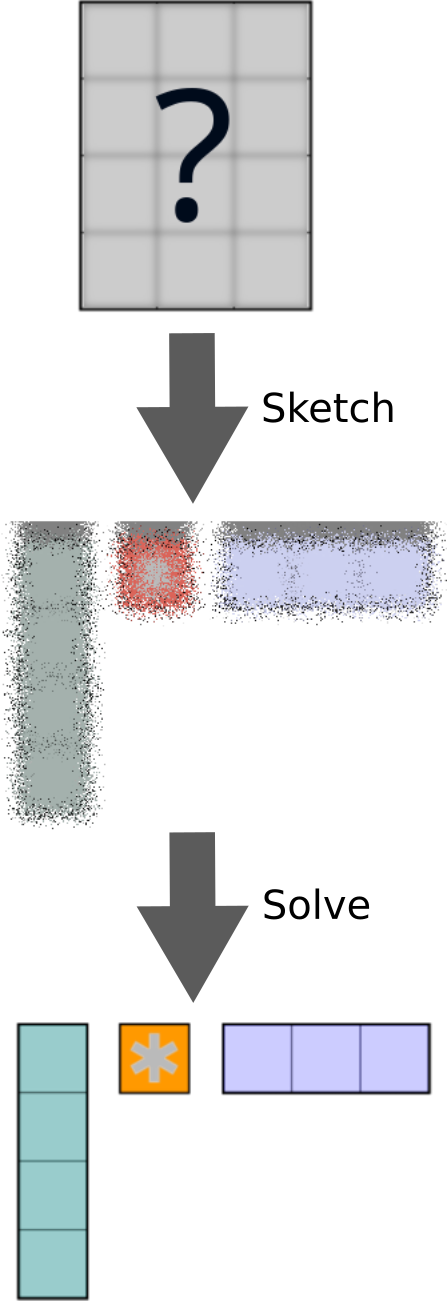
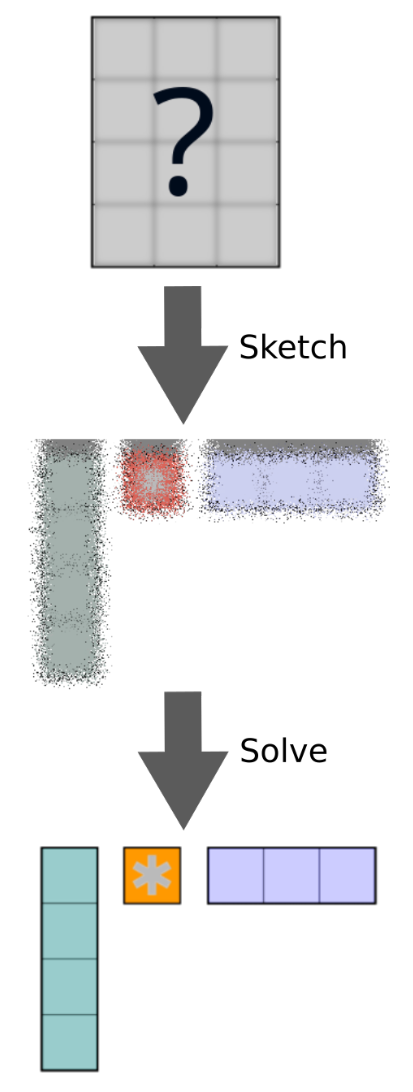
updated readme

diff --git a/README.md b/README.md
@@ -29,22 +29,41 @@
 * A-posteriori verification tools to test accuracy of sketched approximations
 * modular and extendible design, for easy adaption to new settings and operations
 
-# Why sketches? Why `skerch`?
+# Why sketches?
 
 Sketched methods are a good choice whenever we are dealing with *large* objects that can be approximated by *smaller* substructures (e.g. a low-rank approximation of a large matrix).
 Thanks to the random measurements (i.e. the "sketches"), we can directly obtain the *small* approximations, without having to store or compute the *large* object. This works with very few assumptions about how the smaller substructure looks like.
 
 For example, if we have a large linear operator of dimensionality `(N, N)` that doesn't fit in memory, but has rank `k`, we can directly retrieve its top-`k` singular components with only `O(Nk)` storage, as opposed to the intractable `O(N^2)` (see picture below for an intuition). As a bonus, this technique is numerically stable and can be parallelized, which often results in substantial speedups.
 
-And since `skerch` is built on top of PyTorch and with very few dependencies otherwise, it supports a broad variety of platforms and datatypes, including e.g. complex datatypes on GPU.
-Its modular and extendible design, featuring many common components of sketches, is also meant to reduce development times whenever new settings or methods are being explored.
-Last but not least, `skerch` also provides functionality to store and manipulate large tensors in a distributed fashion via `HDF5` tensor databases, useful for out-of-core computations.
-
-In summary, `skerch` is made to deal with linear objects that are large and slow, resulting in substantially faster and more scalable operations during runtime, and overall faster development times. Give it a try!
-
 <p align="center">
-  <img alt="Intuition for low-rank sketch-and-solve." src="docs/materials/assets/sketch_and_solve.png" width="18%"/>
+  <img alt="Intuition for low-rank sketch-and-solve." src="docs/materials/assets/sketch_and_solve.png" width="15%"/>
 </p>
+
+# Why `skerch`?
+
+On paper, sketched methods only require our linear operators to satisfy the following *bare bones interface*:
+
+```
+class MyLinOp:
+    def __init__(self, shape):
+        self.shape = shape
+
+    def __matmul__(self, x):
+        return "... implement A @ x ..."
+
+    def __rmatmul__(self, x):
+        return "... implement x @ A ..."
+```
+
+Anything more than this is not really required. In most cases, libraries do require more complicated interfaces, and this limits the application scenarios, or introduces substantial overhead to developers.
+
+`skerch` is specifically designed to work on this bare-bones interface. Furthermore, its highly modular architecture allows users to exchange and modify different components of the sketched methods.
+
+As a bonus, `skerch` is built on top of PyTorch, and with very few dependencies otherwise, so it supports a broad variety of platforms and datatypes (including e.g. complex datatypes on GPU).
+`skerch` also supports in-core and out-of-core parallelizations (e.g. via [HDF5](https://www.h5py.org/) tensor databases), providing good scalability in memory and runtime. The documentation [examples](https://skerch.readthedocs.io/en/latest/examples/index.html) illustrate all of the above points.
+
+In summary, `skerch` brings sketched methods to you with minimal overhead, and retaining good performance, resulting in overall faster development times. Give it a try!
 
 
 # Installation and basic usage
@@ -54,6 +73,72 @@ Install via:
 ```bash
 pip install skerch
 ```
+
+Then, given any linear operator `lop` that implements the bare-minimum interface `.shape = (h, w)` and `lop @ x, x @ lop`, we can compute the sketched SVD as follows (``skerch`` also provides functionality to estimate EIGH, norm, diagonals...):
+
+
+```python
+from skerch.algorithms import ssvd
+
+U, S, Vh = ssvd(lop, device, dtype, num_outer, seed=12345, recovery_type="nystrom")
+```
+
+With the `nystrom` recovery, this method requires a total of `2 * num_outer` measurements, and yields a *thin* SVD estimation where `lop` is approximated by `(U * S) @ Vh`, and  `U.shape = (h, num_outer)`, `S.shape = (num_outer,)`, `Vh.shape = (num_outer, w)`.
+
+If `num_outer` is close enough to covering the rank of `lop`, this yields an accurate recovery (see documentation [examples](https://skerch.readthedocs.io/en/latest/examples/index.html)). But how can we make sure?
+
+The library also implements cheap *a-posteriori* methods to estimate the error of the obtained sketched approximation, without requiring to know `lop`:
+
+
+```python
+from skerch.a_posteriori import apost_error, apost_error_bounds
+from skerch.linops import CompositeLinOp, DiagonalLinOp
+
+lop_approx = CompositeLinOp([("U", U), ("S", DiagonalLinOp(S)), ("Vh", Vh)])
+
+(lop_f2, approx_f2, err2), _ = apost_error(lop, lop_approx, device, dtype, num_meas=30, seed=54321)
+
+print("Estimated Frob(op):", lop_f2**0.5)
+print("Estimated Frob(sketched_op):", approx_f2**0.5)
+print("Estimated Frobenius Error:", err2**0.5)
+```
+
+
+This technique makes use of a number of test measurements that must be independent from `lop` and the sketch measurements (make sure to use a different seed). For 30 measurements and complex-valued `lop`, the probability of `err2**0.5` being wrong by at most 50% can be queried as follows:
+
+```bash
+python -m skerch post_bounds --apost_n=30 --apost_err=0.5 --is_complex
+# returns {'LOWER: P(err<=0.5x)': 0.0030445096757934554, 'HIGHER: P(err>=1.5x)': 0.05865709397802224}
+```
+
+
+See the documentation [examples](https://skerch.readthedocs.io/en/latest/examples/index.html) and [API docs](https://skerch.readthedocs.io/en/latest/skerch.html) for more details.
+
+# Developers
+
+Contributions are welcome under this repo's [LICENSE](LICENSE).
+
+Feel free to open an [issue](https://github.com/andres-fr/skerch/issues) with bug reports, feature requests, etc.
+
+The documentation also contains a [For Developers](https://skerch.readthedocs.io/en/latest/for_developers.html) section with useful guidelines to interact with this repo and propose pull requests.
+
+
+# Researchers
+
+If this library is useful for your work, please consider citing it:
+
+```
+@manual{fernandez2024skerch,
+  title={{S}kerch: Sketched matrix decompositions for {PyTorch}},
+  author={Andres Fernandez},
+  year={2024},
+  url={https://github.com/andres-fr/skerch},
+}
+```
+
+
+
+
 
 ```
 TODO:
@@ -105,91 +190,4 @@ CHANGELOG:
   - Efficient support for Hermitian versions
   - Dispatcher for modularized use of noise sources and recovery types
   - Matrix-free a-posteriori error verification
-```
-
-The sketched SVD of a linear operator `op` of shape `(h, w)` can be then computed simply via:
-
-
-```python
-from skerch.decompositions import ssvd
-
-q, u, s, vt, pt = ssvd(
-    op,
-    op_device=DEVICE,
-    op_dtype=DTYPE,
-    outer_dim=NUM_OUTER,
-    inner_dim=NUM_INNER,
-)
-```
-
-Where the number of outer and inner measurements for the sketch is specified, and `q @ u @ diag(s) @ vt @ pt` is a PyTorch matrix that approximates `op`, where `q, p` are *thin* orthonormal matrices of shape `(h, NUM_OUTER)` and `(NUM_OUTER, w)` respectively, and `u, vt` are *small* orthogonal matrices of shape `(NUM_OUTER, NUM_OUTER)`.
-
-The `op` object must simply satify the following criteria:
-
-* It must have a `op.shape = (height, width)` attribute
-* It must implement the `w = op @ v` right-matmul operator, receiving and returning PyTorch vectors/matrices
-* It must implement the `w = v @ op` left-matmul operator, receiving and returning PyTorch vectors/matrices
-
-`skerch` provides a convenience PyTorch wrapper for the cases where `op` interacts with NumPy arrays instead (e.g. [SciPy linear operators](https://docs.scipy.org/doc/scipy/reference/generated/scipy.sparse.linalg.LinearOperator.html) like the ones used in [CurvLinOps](https://github.com/f-dangel/curvlinops)).
-
-To get a good suggestion of the number of measurements required for a given shape and budget, simply run:
-
-```bash
-python -m skerch prio_hpars --shape=100,200 --budget=12345
-```
-
-The library also implements cheap *a-posteriori* methods to estimate the error of the obtained sketched approximation:
-
-
-```python
-from skerch.a_posteriori import a_posteriori_error
-from skerch.linops import CompositeLinOp, DiagonalLinOp
-
-# (q, u, s, vt, pt) previously computed via ssvd
-sketched_op = CompositeLinOp(
-    (
-        ("Q", q),
-        ("U", u),
-        ("S", DiagonalLinOp(s)),
-        ("Vt", vt),
-        ("Pt", pt),
-    )
-)
-
-(f1, f2, frob_err) = a_posteriori_error(
-    op, sketched_op, NUM_A_POSTERIORI, dtype=DTYPE, device=DEVICE
-)[0]
-print("Estimated Frob(op):", f1**0.5)
-print("Estimated Frob(sketched_op):", f2**0.5)
-print("Estimated Frobenius Error:", frob_err**0.5)
-```
-
-For a given `NUM_A_POSTERIORI` measurements (30 is generally OK), the probability of `frob_err**0.5` being wrong by a certain amount can be queried as follows:
-
-```bash
-python -m skerch post_bounds --apost_n=30 --apost_err=0.5
-```
-
-See [Getting Started](https://skerch.readthedocs.io/en/latest/getting_started.html), [Examples](https://skerch.readthedocs.io/en/latest/examples/index.html), and [API docs](https://skerch.readthedocs.io/en/latest/skerch.html) for more details.
-
-# Developers
-
-Contributions are welcome under this repo's [LICENSE](LICENSE).
-
-Feel free to open an [issue](https://github.com/andres-fr/skerch/issues) with bug reports, feature requests, etc.
-
-The documentation also contains a [For Developers](https://skerch.readthedocs.io/en/latest/for_developers.html) section with useful guidelines to interact with this repo and propose pull requests.
-
-
-# Researchers
-
-If this library is useful for your work, please consider citing it:
-
-```
-@manual{fernandez2024skerch,
-  title={{S}kerch: Sketched matrix decompositions for {PyTorch}},
-  author={Andres Fernandez},
-  year={2024},
-  url={https://github.com/andres-fr/skerch},
-}
 ```
